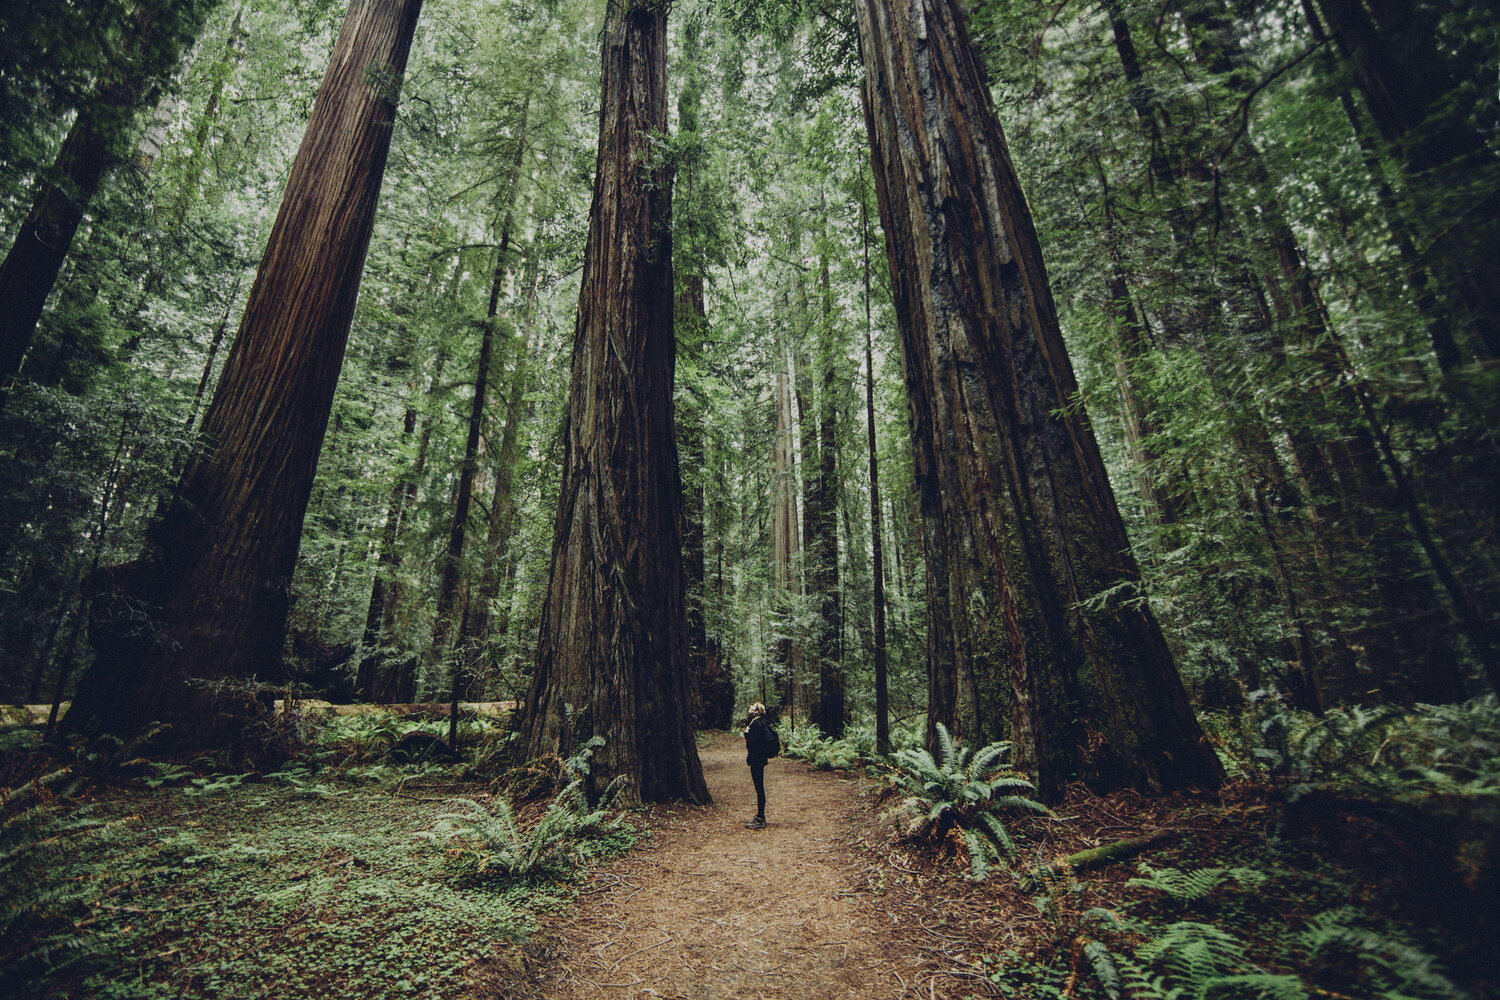
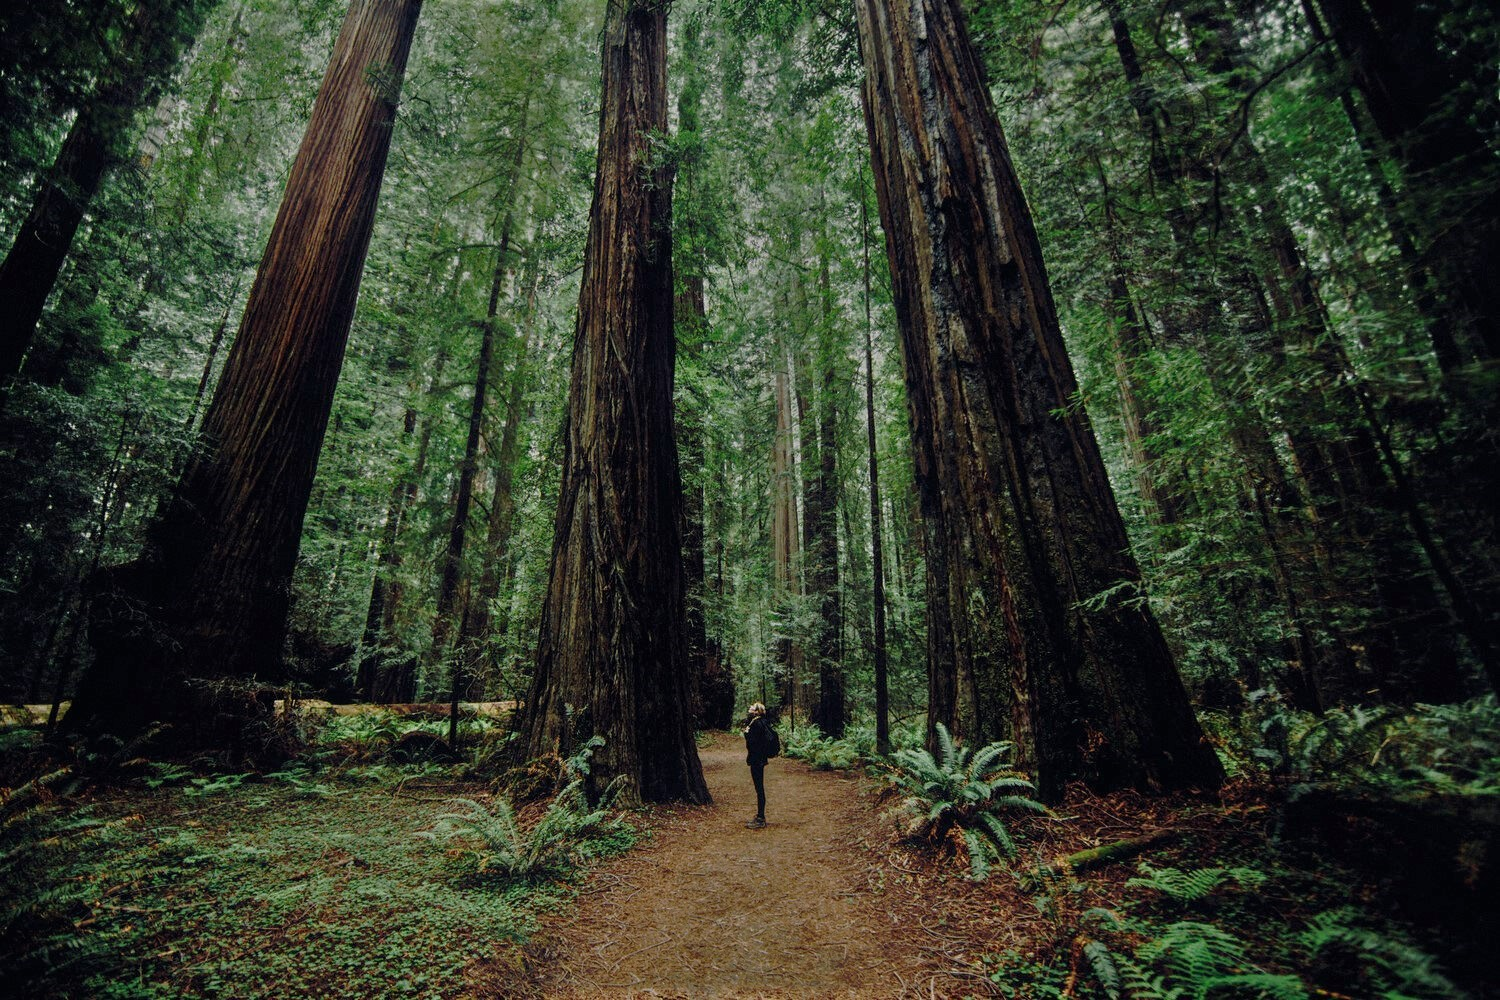
add: HTML: Estruturação inicial da Bio Section | Escurecimento da Home Image

diff --git a/index.html b/index.html
@@ -36,6 +36,17 @@
                 </div>
                 <a href="#">Saiba Mais</a>
             </section>
+
+            <section class="bio">
+                <div class="content">
+                    <header>
+                        <h3>Conservamos as terras graças à divulgação, restauração e pesquisa.</h3>
+                    </header>
+                    <main>
+                        Algumas das mais belas paisagens do planeta estão ameaçadas pelo aumento na construção de estradas e na exploração de gás, petróleo e minérios. Nosso objetivo é proteger essas áreas contra o desenvolvimento impróprio; mas, sozinhos, não atingiremos nossos objetivos. Descubra como ajudar.
+                    </main>
+                </div>
+            </section>
         </main>
     </body>
 </html>
